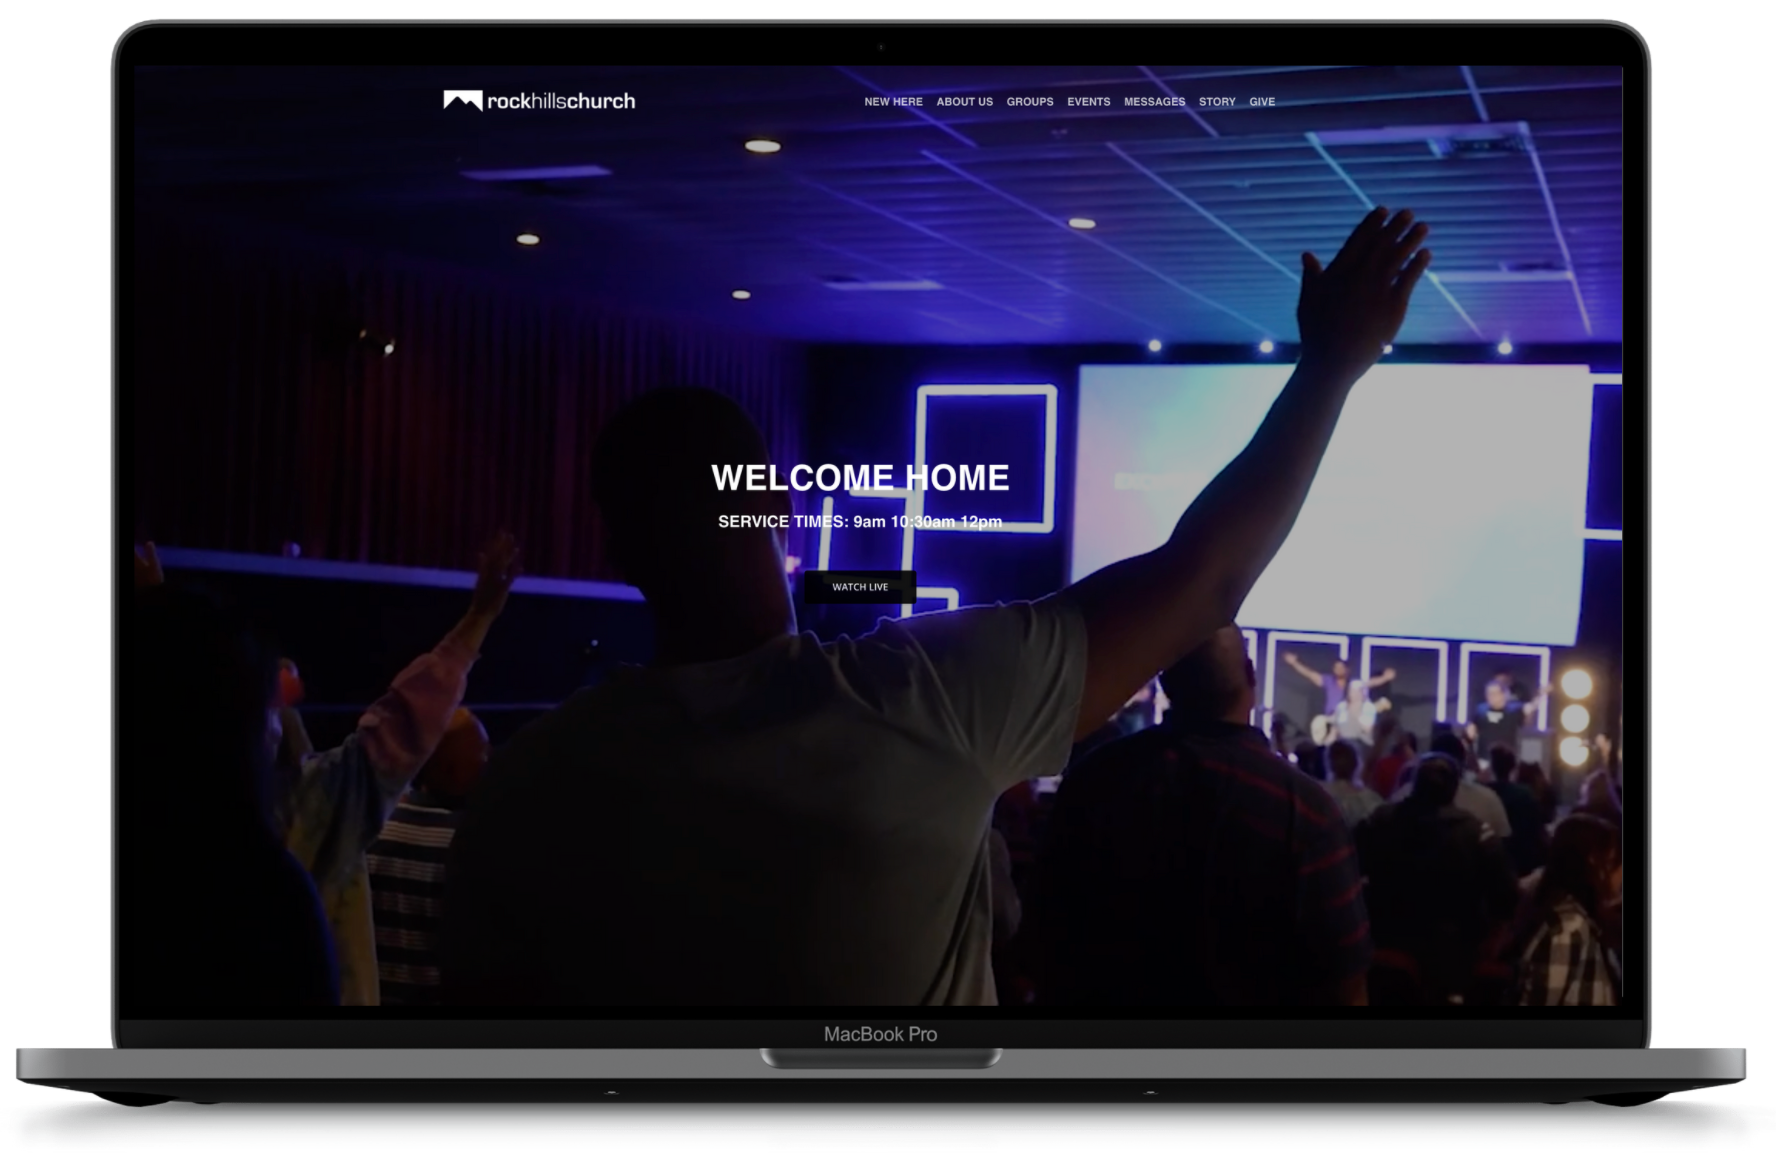
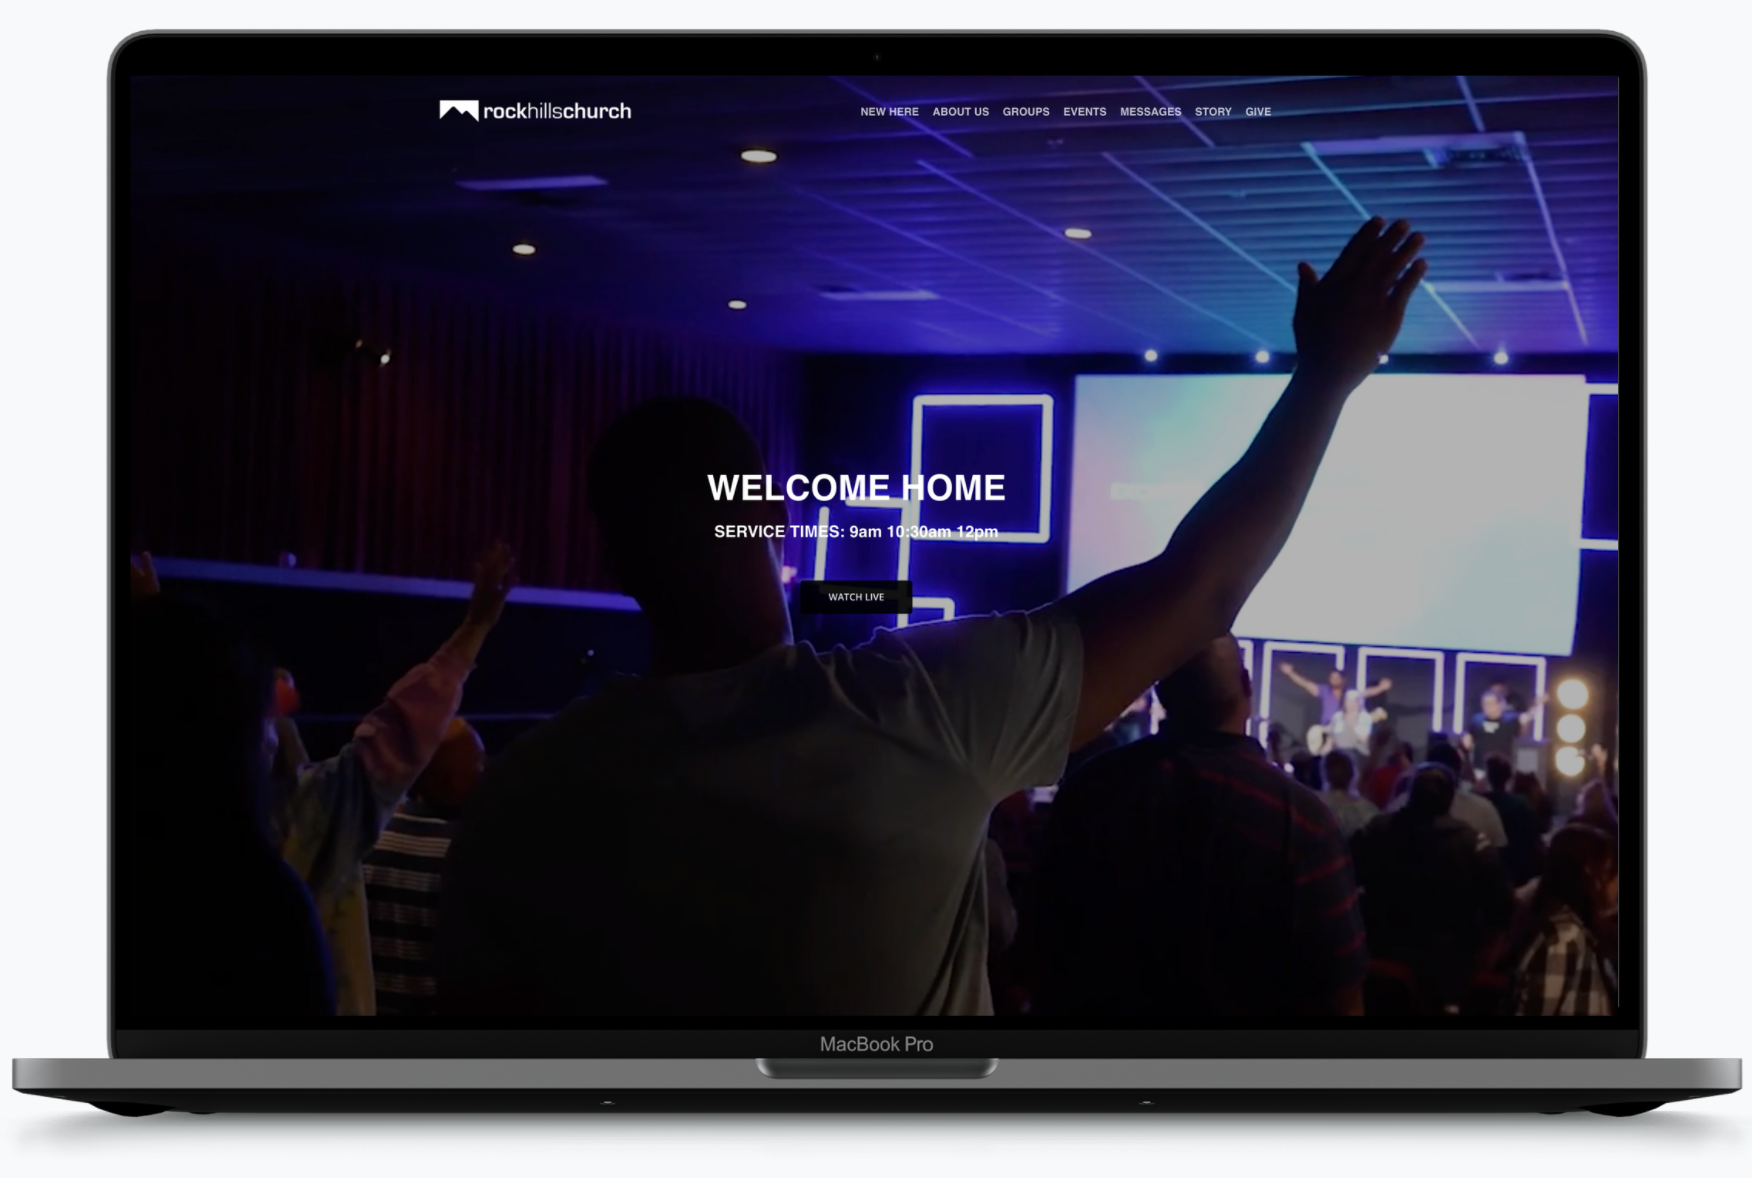
setting a card style and lg button positioning

diff --git a/index.html b/index.html
@@ -85,17 +85,31 @@
           </h2>
          </div>
          <div class="container px-0">
-          <img src="assets/rockHillsChurch__Homepage_Image.png" class="card-img img-fluid mx-0" alt="Rock Hills Church">
-     
-          <div class="row mx-0">
-            <div class="col-lg-12 col-md-12 col-sm-12">
-              <div class="card mb-0 shadow-sm">
+           
+           <div class="row mx-0">
+             <div class="col-lg-6 col-md-12 col-sm-12 bg-light order-first">
+              <img src="assets/rockHillsChurch__Homepage_Image.png" class="card-img img-fluid mx-0" alt="Rock Hills Church">
+             </div>  
+
+              <div class="col-lg-6 card mb-0 shadow-sm order-last">
                 <div class="card-body">
-                  <p class="card-text d-inline-flex">I enjoy contributing to my community by mantaining the RHC website & building an authentic community.</p>
-                    <btn id="right-panel-link" class="btn btn-outline-dark ml-5">Visit Rock Hills Church</btn>
+                  <h5 class="card-title">Rock Hills Church</h5>
+                  <p class="card-text">I enjoy contributing back to my community. 
+                    One way I get to do this is by serving at Rockhills Church, where I manage and update the church's website.
+                  </p>
+                  <p class="card-text"> Responsibility: Update, Manage Content and  website</p>
+                  <sup class="card-text"> One Recent Example: Integrate custom code for payment processing and plugin integration for donations and event purchases. 
+                  </sup>
+                  <div class="techIcon mx-0">
+                    <img src="/assets/rockhills_tech_icons.png" alt="Rockhills Technologies used Icons">
+                    <button id="whitebtn" type="button" class="btn btn-outline-dark ml-3">Visit Rock Hills Church</button>
+                    <button type="button" class="btn btn-warning ml-2">Donate</button>
+
+
+                  </div>
                       </div>
               </div>
-            </div>
+            
         </div>    
         
       </div>

diff --git a/css/style.css b/css/style.css
@@ -66,11 +66,11 @@ text-align: center;
   box-shadow: none;
 }
 
- #right-panel-link:hover {
+ #whitebtn:hover {
   box-shadow: 0 0 7px #fff, 0 0 10px #fff, 0 0 21px #fff, 0 0 42px #fff, 0 0 82px #fff, 0 0 92px rgb(255, 255, 255), 0 0 102px #596670, 0 0 151px #1e272e;
  }
 
-#right-panel-link {
+#whitebtn {
   position: relative;
   background-color: #dcdde1;
   color: #000;
@@ -87,6 +87,9 @@ text-align: center;
   -moz-transition: all 0.5s;
   -o-transition: all 0.5s;
   -ms-transition: all 0.5s;
+  justify-content: center;
+  align-self: center;
+    
 }
 
 
@@ -336,6 +339,8 @@ h1, h2, h3, h4, h5, h6 {
 }
 
  
+
+
 
 
 .row.align-items-md-stretch{
